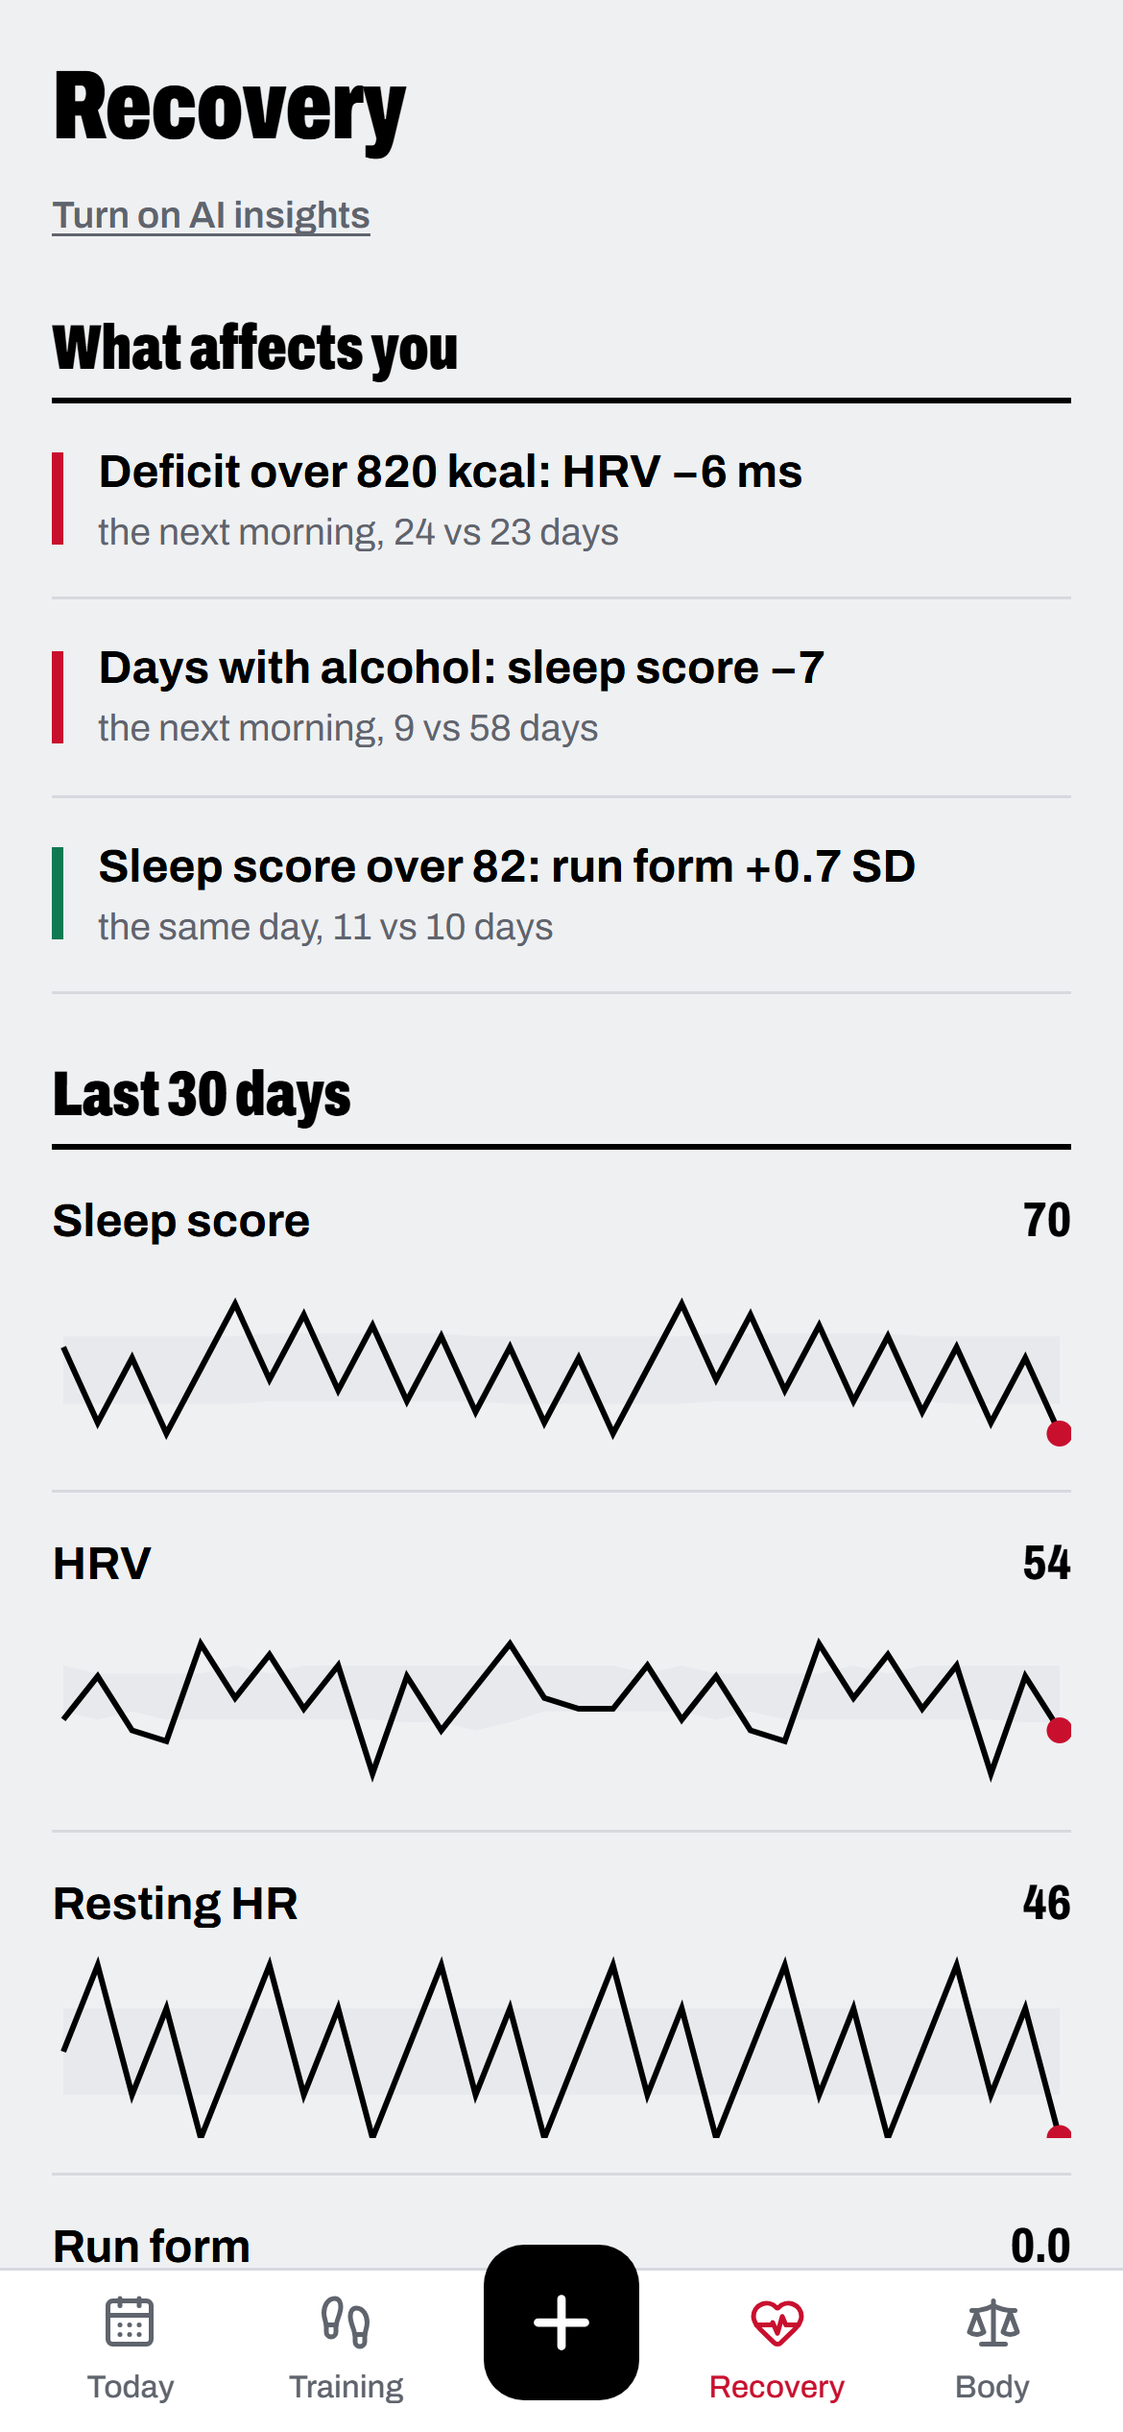
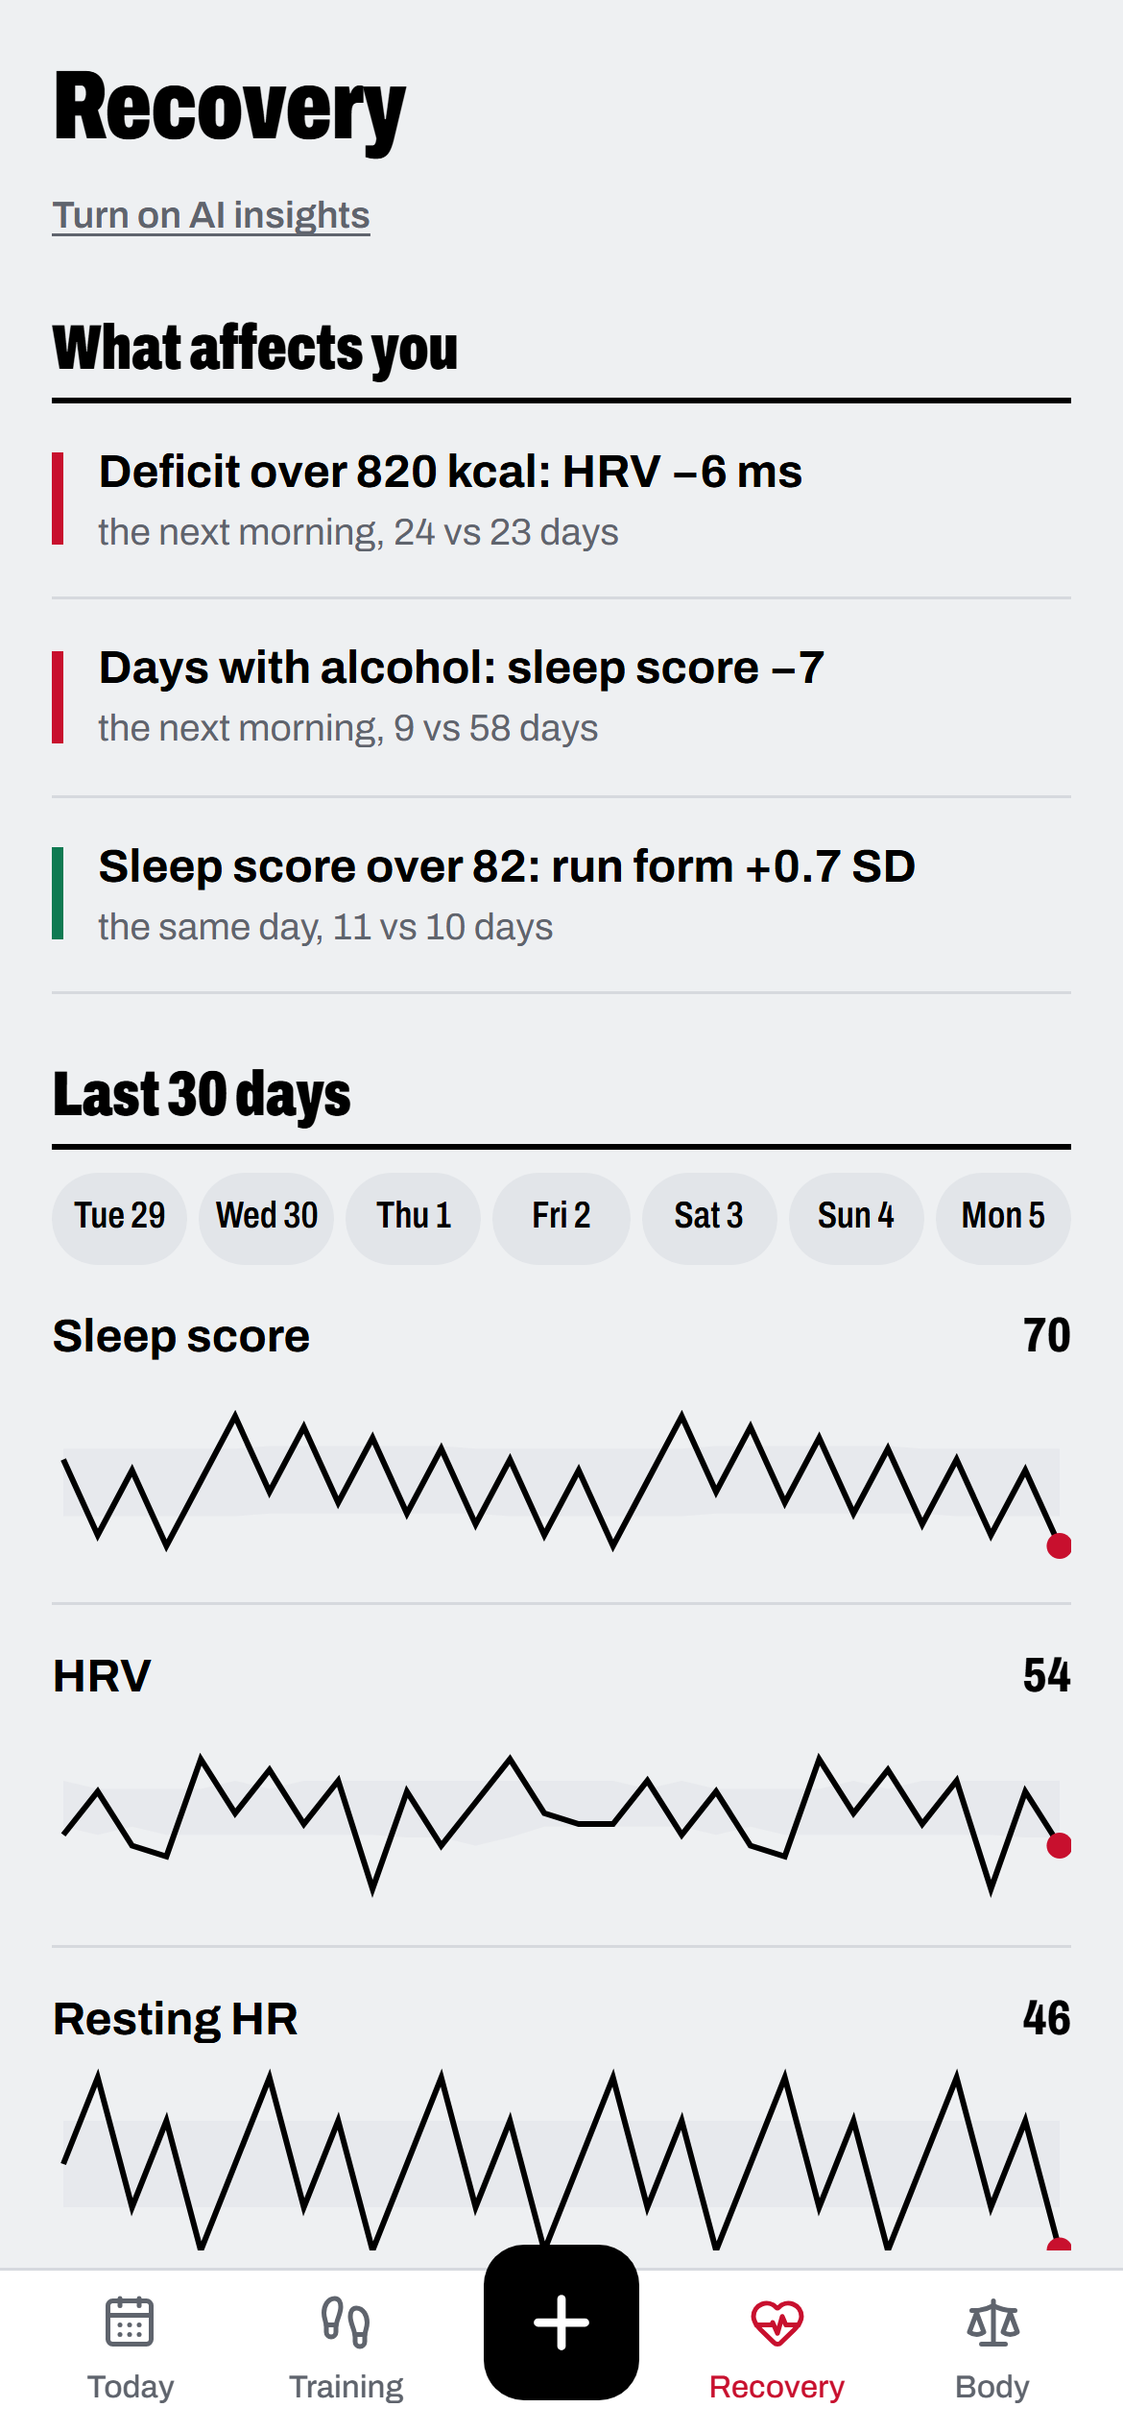
fix(recovery): point-for-point finding chart, day buttons, clear AI errors, read-only RLS, real dates, day sheet errors

diff --git a/apps/web/components/recovery/FindingSheet.tsx b/apps/web/components/recovery/FindingSheet.tsx
@@ -6,32 +6,40 @@ import { StatRow } from "@/components/tasuki/StatRow";
 import { findingParams } from "@/lib/recovery/text";
 import type { FindingRow } from "@/lib/recovery/view";
 
-/** The two groups side by side: mean difference, how many days each, what was controlled for. */
+const W = 300;
+const ROW = 34;
+
+/**
+ * The two groups day by day: every day is a dot (its outcome vs the person's normal), the mean a black tick,
+ * the centre line is the normal. Rows stored before the points were kept fall back to the means only.
+ */
 export function FindingSheet({ finding, onClose }: { finding: FindingRow | null; onClose: () => void }) {
   const t = useTranslations("recovery");
   if (!finding) return <BottomSheet open={false} onOpenChange={onClose} title="">{null}</BottomSheet>;
   const p = findingParams(finding);
-  const max = Math.max(Math.abs(finding.high.mean ?? 0), Math.abs(finding.low.mean ?? 0), 1);
-  // Bars grow from a centre line: left = below the person's normal, right = above.
-  const bar = (m: number | null) => {
-    const w = `${Math.round((Math.abs(m ?? 0) / max) * 50)}%`;
-    return (m ?? 0) < 0 ? { right: "50%", width: w } : { left: "50%", width: w };
-  };
+  const groups = [
+    { label: t(`factor.${finding.factor}.high`, { v: p.high }), g: finding.high },
+    { label: t(`factor.${finding.factor}.low`, { v: p.low }), g: finding.low },
+  ];
+  const all = groups.flatMap(({ g }) => [...(g.values ?? []), g.mean ?? 0]);
+  const max = Math.max(1, ...all.map(Math.abs));
+  const x = (v: number) => W / 2 + (v / max) * (W / 2 - 6);
+
   return (
     <BottomSheet open onOpenChange={(o) => !o && onClose()} title={t(`metric.${finding.outcome}`)}>
       <div className="flex flex-col gap-4 pt-3">
         <p className="num text-[44px] font-black leading-none [font-stretch:62%]">{p.diff}</p>
-        <div className="flex flex-col gap-3">
-          {[
-            { label: t(`factor.${finding.factor}.high`, { v: p.high }), g: finding.high },
-            { label: t(`factor.${finding.factor}.low`, { v: p.low }), g: finding.low },
-          ].map(({ label, g }) => (
+        <div className="flex flex-col gap-2">
+          {groups.map(({ label, g }) => (
             <div key={label}>
               <p className="text-[13px] font-semibold">{label}</p>
-              <div className="relative mt-1 h-2.5 w-full bg-muted">
-                <span aria-hidden className="absolute inset-y-[-3px] left-1/2 w-px bg-muted-foreground" />
-                <div className="absolute inset-y-0 bg-foreground" style={bar(g.mean)} />
-              </div>
+              <svg viewBox={`0 0 ${W} ${ROW}`} className="mt-1 w-full" role="img" aria-label={`${label}: ${g.n}`}>
+                <line x1={W / 2} x2={W / 2} y1={0} y2={ROW} stroke="var(--muted-foreground)" strokeWidth={1} />
+                {(g.values ?? []).map((v, i) => (
+                  <circle key={i} cx={x(v)} cy={ROW / 2 + (((i * 7) % 5) - 2) * 3} r={3.5} fill="var(--foreground)" opacity={0.35} />
+                ))}
+                {g.mean != null && <rect x={x(g.mean) - 1.5} y={2} width={3} height={ROW - 4} fill="var(--foreground)" />}
+              </svg>
             </div>
           ))}
         </div>

diff --git a/apps/web/components/recovery/DaySheet.tsx b/apps/web/components/recovery/DaySheet.tsx
@@ -20,11 +20,20 @@ export function DaySheet({ date, onClose, whySlot }: { date: ISODate | null; onC
   const t = useTranslations("recovery");
   const format = useFormatter();
   const [day, setDay] = useState<RecoveryDay | null>(null);
+  const [failed, setFailed] = useState(false);
+  const [attempt, setAttempt] = useState(0);
   useEffect(() => {
     setDay(null);
+    setFailed(false);
     if (!date) return;
-    fetch(`/api/recovery/day/${date}`).then((r) => (r.ok ? r.json() : null)).then(setDay).catch(() => setDay(null));
-  }, [date]);
+    // A later tap aborts this one, so the sheet never shows another day's numbers under this title.
+    const ctrl = new AbortController();
+    fetch(`/api/recovery/day/${date}`, { signal: ctrl.signal })
+      .then((r) => (r.ok ? (r.json() as Promise<RecoveryDay>) : Promise.reject(new Error(String(r.status)))))
+      .then((d) => d.date === date && setDay(d))
+      .catch((e) => !ctrl.signal.aborted && setFailed(!!e));
+    return () => ctrl.abort();
+  }, [date, attempt]);
 
   const title = date ? format.dateTime(new Date(`${date}T00:00:00Z`), { weekday: "long", day: "numeric", month: "short", timeZone: "UTC" }) : "";
   const n = day?.night;
@@ -34,8 +43,15 @@ export function DaySheet({ date, onClose, whySlot }: { date: ISODate | null; onC
 
   return (
     <BottomSheet open={!!date} onOpenChange={(o) => !o && onClose()} title={title}>
-      {!day ? (
-        <div className="mt-4 h-40 animate-pulse rounded-md bg-muted" />
+      {failed ? (
+        <p className="pt-4 text-[13px] text-muted-foreground">
+          {t("day.error")}{" "}
+          <button onClick={() => setAttempt((a) => a + 1)} className="font-semibold text-primary">
+            {t("day.retry")}
+          </button>
+        </p>
+      ) : !day ? (
+        <div className="mt-4 h-40 animate-pulse rounded-md bg-muted" role="status" />
       ) : (
         <div className="flex flex-col pt-2">
           {n ? (

diff --git a/apps/web/components/recovery/WeeklySummary.tsx b/apps/web/components/recovery/WeeklySummary.tsx
@@ -6,6 +6,7 @@ import { ChevronDown } from "lucide-react";
 import type { WeeklySummary as Summary } from "@loop/core";
 import { SectionHead } from "@/components/tasuki/SectionHead";
 import { cn } from "@/lib/utils";
+import { aiErrorKey } from "./aiError";
 
 export function WeeklySummary() {
   const t = useTranslations("recovery.ai");
@@ -21,10 +22,10 @@ export function WeeklySummary() {
     fetch("/api/recovery/questions", { method: "POST" }).catch(() => null);
   }, []);
 
-  if (!state) return <div className="mt-6 h-24 animate-pulse rounded-md bg-muted" aria-label={t("loading")} />;
+  if (!state) return <div className="mt-6 h-24 animate-pulse rounded-md bg-muted" role="status" aria-label={t("loading")} />;
   if ("error" in state) {
     if (state.error === "not_enough_data") return null;
-    return <p className="mt-6 text-[13px] text-muted-foreground">{state.error === "no_key" ? t("noKey") : t("error")}</p>;
+    return <p className="mt-6 text-[13px] text-muted-foreground">{t(aiErrorKey(state.error))}</p>;
   }
   const s = state.summary;
   if (!s.sentences.length && !s.tips.length) return null;
@@ -41,14 +42,14 @@ export function WeeklySummary() {
       {open && (
         <div className="pt-2">
           {s.headline && <p className="cond text-xl leading-tight">{s.headline}</p>}
-          {s.sentences.map((x) => (
-            <p key={x.text} className="mt-1.5 text-[15px]">{x.text}</p>
+          {s.sentences.map((x, i) => (
+            <p key={i} className="mt-1.5 text-[15px]">{x.text}</p>
           ))}
           {!!s.tips.length && (
             <>
               <p className="mt-3 text-[13px] font-bold">{t("tips")}</p>
-              {s.tips.map((x) => (
-                <p key={x.text} className="mt-1 text-[15px]">{x.text}</p>
+              {s.tips.map((x, i) => (
+                <p key={i} className="mt-1 text-[15px]">{x.text}</p>
               ))}
             </>
           )}

diff --git a/tests/integration/recovery-view.test.ts b/tests/integration/recovery-view.test.ts
@@ -6,6 +6,7 @@ import { loadRecoveryDay } from "@/lib/recovery/day";
 import { loadRecoveryView } from "@/lib/recovery/view";
 import { loadRecoveryDays } from "@/lib/recovery/load";
 import { getAiHealthConsent, setAiHealthConsent } from "@/lib/recovery/consent";
+import { isRealDate } from "@/lib/recovery/dates";
 // @ts-expect-error — plain JS helper shared with the smoke scripts
 import { seedUser } from "../smoke/seed.mjs";
 import { admin, cleanup, createTestUser, type TestUser } from "./setup";
@@ -32,6 +33,22 @@ describe("recovery: AI consent", () => {
     await admin().from("recovery_summaries").insert({ user_id: u.id, week_start: "2026-09-28", content: { headline: "x", sentences: [], tips: [] } });
     const { data } = await u.client.from("recovery_summaries").select("week_start");
     expect(data).toHaveLength(1);
+  });
+
+  it("users can read but never write recovery rows (only the server writes them)", async () => {
+    const tries = await Promise.all([
+      u.client.from("recovery_summaries").insert({ user_id: u.id, week_start: "2026-09-21", content: { headline: "forged", sentences: [], tips: [] } }),
+      u.client.from("recovery_findings").insert({ user_id: u.id, computed_at: new Date().toISOString(), question_id: "x", factor: "deficit", outcome: "hrv", lag: 1, kind: "finding", groups: {} }),
+      u.client.from("recovery_days").insert({ user_id: u.id, local_date: "2026-01-01", sleep_score: 99 }),
+    ]);
+    for (const r of tries) expect(r.error).not.toBeNull();
+  });
+
+  it("dates on the recovery routes must be real", () => {
+    expect(isRealDate("2026-10-05")).toBe(true);
+    expect(isRealDate("2026-13-45")).toBe(false);
+    expect(isRealDate("2026-02-30")).toBe(false);
+    expect(isRealDate("yesterday")).toBe(false);
   });
 });
 

diff --git a/apps/web/components/recovery/RecoveryCurves.tsx b/apps/web/components/recovery/RecoveryCurves.tsx
@@ -2,6 +2,7 @@
 
 import { useTranslations } from "next-intl";
 import { Area, ComposedChart, Line, ResponsiveContainer, Scatter, XAxis, YAxis } from "recharts";
+import { useFormatter } from "next-intl";
 import type { CurvePoint, ISODate } from "@loop/core";
 import { SectionHead } from "@/components/tasuki/SectionHead";
 
@@ -10,10 +11,26 @@ const ts = (d: string) => new Date(`${d}T00:00:00Z`).getTime();
 
 export function RecoveryCurves({ curves, onPick }: { curves: Record<Key, CurvePoint[]>; onPick: (date: ISODate) => void }) {
   const t = useTranslations("recovery");
+  const format = useFormatter();
   const keys: Key[] = ["sleepScore", "hrv", "restingHr", "runForm"];
+  // The last 7 mornings with data as buttons: the day sheet without needing to hit a chart point.
+  const recent = [...new Set(keys.flatMap((k) => curves[k].map((p) => p.date)))].sort().slice(-7);
+  if (!recent.length) return null;
   return (
     <section>
       <SectionHead title={t("curves")} />
+      <div className="mt-2 flex gap-1" role="group" aria-label={t("pickDay")}>
+        {recent.map((d) => (
+          <button
+            key={d}
+            type="button"
+            onClick={() => onPick(d)}
+            className="num min-w-0 flex-1 rounded-full bg-muted px-1 py-1.5 text-[13px] font-semibold active:bg-border"
+          >
+            {format.dateTime(new Date(`${d}T00:00:00Z`), { weekday: "short", timeZone: "UTC" })} {Number(d.slice(8))}
+          </button>
+        ))}
+      </div>
       {keys.map((k) => {
         const pts = curves[k];
         if (!pts.length) return null;

diff --git a/apps/web/components/recovery/WhyButton.tsx b/apps/web/components/recovery/WhyButton.tsx
@@ -4,6 +4,7 @@ import { useState } from "react";
 import { useTranslations } from "next-intl";
 import { Sparkles } from "lucide-react";
 import type { DayAnswer } from "@loop/core";
+import { aiErrorKey } from "./aiError";
 
 export function WhyButton({ date }: { date: string }) {
   const t = useTranslations("recovery.ai");
@@ -27,10 +28,10 @@ export function WhyButton({ date }: { date: string }) {
         <Sparkles className="size-4" /> {t("why")}
       </button>
     );
-  if ("error" in res) return <p className="text-[13px] text-muted-foreground">{res.error === "not_enough_data" ? t("notEnough") : res.error === "no_key" ? t("noKey") : t("error")}</p>;
+  if ("error" in res) return <p className="text-[13px] text-muted-foreground">{t(aiErrorKey(res.error))}</p>;
   return (
     <div>
-      {res.answer.sentences.length ? res.answer.sentences.map((s) => <p key={s.text} className="mt-1 text-[15px]">{s.text}</p>) : <p className="text-[13px] text-muted-foreground">{t("nothing")}</p>}
+      {res.answer.sentences.length ? res.answer.sentences.map((s, i) => <p key={i} className="mt-1 text-[15px]">{s.text}</p>) : <p className="text-[13px] text-muted-foreground">{t("nothing")}</p>}
       {res.stale && (
         <p className="mt-2 text-[13px] text-muted-foreground">
           {t("stale")}{" "}

diff --git a/apps/web/app/api/recovery/day/[date]/why/route.ts b/apps/web/app/api/recovery/day/[date]/why/route.ts
@@ -3,6 +3,7 @@ import { z } from "zod";
 import { apiUser } from "@/lib/api/user";
 import { dayAnswer } from "@/lib/recovery/insights";
 import { STATUS } from "@/lib/recovery/status";
+import { isRealDate } from "@/lib/recovery/dates";
 
 export const maxDuration = 60;
 const Body = z.object({ refresh: z.boolean().optional() });
@@ -11,8 +12,10 @@ export async function POST(req: Request, ctx: RouteContext<"/api/recovery/day/[d
   const { date } = await ctx.params;
   const u = await apiUser();
   if (!u) return NextResponse.json({ error: "unauthorized" }, { status: 401 });
-  if (!/^\d{4}-\d{2}-\d{2}$/.test(date)) return NextResponse.json({ error: "invalid_input" }, { status: 400 });
-  const { refresh } = Body.parse((await req.json().catch(() => ({}))) ?? {});
+  if (!isRealDate(date)) return NextResponse.json({ error: "invalid_input" }, { status: 400 });
+  const body = Body.safeParse((await req.json().catch(() => ({}))) ?? {});
+  if (!body.success) return NextResponse.json({ error: "invalid_input" }, { status: 400 });
+  const { refresh } = body.data;
   const r = await dayAnswer(u.user.id, date, { refresh });
   return r.ok ? NextResponse.json({ answer: r.answer, stale: r.stale }) : NextResponse.json({ error: r.error }, { status: STATUS[r.error] });
 }

diff --git a/packages/core/src/recovery/analyze.ts b/packages/core/src/recovery/analyze.ts
@@ -22,6 +22,8 @@ export interface RecoveryGroup {
   mean: number | null;
   /** Tertiles: the factor's cut (low ≤ bound, high ≥ bound). Binary: null. */
   bound: number | null;
+  /** Each day's outcome vs the person's normal, one decimal (for the point chart). Older rows may lack it. */
+  values?: number[];
 }
 
 export interface RecoveryResult {
@@ -76,7 +78,7 @@ function split(values: number[], transform: RecoveryQuestion["transform"], thres
 
 const groupOf = (labels: number[], ys: number[], which: 1 | -1, bound: number | null): RecoveryGroup => {
   const v = ys.filter((_, i) => labels[i] === which);
-  return { n: v.length, mean: v.length ? mean(v) : null, bound };
+  return { n: v.length, mean: v.length ? mean(v) : null, bound, values: v.map((x) => Math.round(x * 10) / 10) };
 };
 
 /** Runs every question on the rows (spec §5.4–§5.6). Deterministic. */

diff --git a/apps/web/components/profile/AiHealthCard.tsx b/apps/web/components/profile/AiHealthCard.tsx
@@ -36,13 +36,14 @@ export function AiHealthCard({ enabled }: { enabled: boolean }) {
             <Sparkles className="size-4 text-primary" />
             <h2 className="cond text-lg leading-none">{t("title")}</h2>
           </div>
-          <p className="text-[13px] text-muted-foreground">{t("explain")}</p>
+          <p id="ai-health-explain" className="text-[13px] text-muted-foreground">{t("explain")}</p>
         </div>
         <button
           type="button"
           role="switch"
           aria-checked={on}
           aria-label={t("title")}
+          aria-describedby="ai-health-explain"
           disabled={busy}
           onClick={toggle}
           className={cn("relative mt-1 h-7 w-12 shrink-0 rounded-full transition-colors", on ? "bg-primary" : "bg-muted")}

diff --git a/apps/web/app/api/recovery/day/[date]/route.ts b/apps/web/app/api/recovery/day/[date]/route.ts
@@ -1,11 +1,12 @@
 import { NextResponse } from "next/server";
 import { apiUser } from "@/lib/api/user";
 import { loadRecoveryDay } from "@/lib/recovery/day";
+import { isRealDate } from "@/lib/recovery/dates";
 
 export async function GET(_req: Request, ctx: RouteContext<"/api/recovery/day/[date]">) {
   const { date } = await ctx.params;
   const u = await apiUser();
   if (!u) return NextResponse.json({ error: "unauthorized" }, { status: 401 });
-  if (!/^\d{4}-\d{2}-\d{2}$/.test(date)) return NextResponse.json({ error: "invalid_input" }, { status: 400 });
+  if (!isRealDate(date)) return NextResponse.json({ error: "invalid_input" }, { status: 400 });
   return NextResponse.json(await loadRecoveryDay(u.user.id, date));
 }

diff --git a/apps/web/components/recovery/MoreLists.tsx b/apps/web/components/recovery/MoreLists.tsx
@@ -20,7 +20,7 @@ export function MoreLists({ noEffect, needsData }: { noEffect: FindingRow[]; nee
   };
   return (
     <section className="mt-6">
-      <button onClick={() => setOpen(!open)} className="flex w-full items-baseline justify-between border-b-2 border-foreground pb-1.5">
+      <button onClick={() => setOpen(!open)} aria-expanded={open} className="flex w-full items-baseline justify-between border-b-2 border-foreground pb-1.5">
         <span className="cond text-[22px] leading-none">{t("more")}</span>
         <ChevronDown className={cn("size-5 transition-transform", open && "rotate-180")} />
       </button>

diff --git a/apps/web/components/recovery/aiError.ts b/apps/web/components/recovery/aiError.ts
@@ -1,0 +1,8 @@
+/** Message key (under recovery.ai) for an AI error code from the recovery routes. */
+export function aiErrorKey(error: string): "noKey" | "consentOff" | "badKey" | "notEnough" | "error" {
+  if (error === "no_key") return "noKey";
+  if (error === "consent_required") return "consentOff";
+  if (error === "invalid_key") return "badKey";
+  if (error === "not_enough_data") return "notEnough";
+  return "error";
+}
